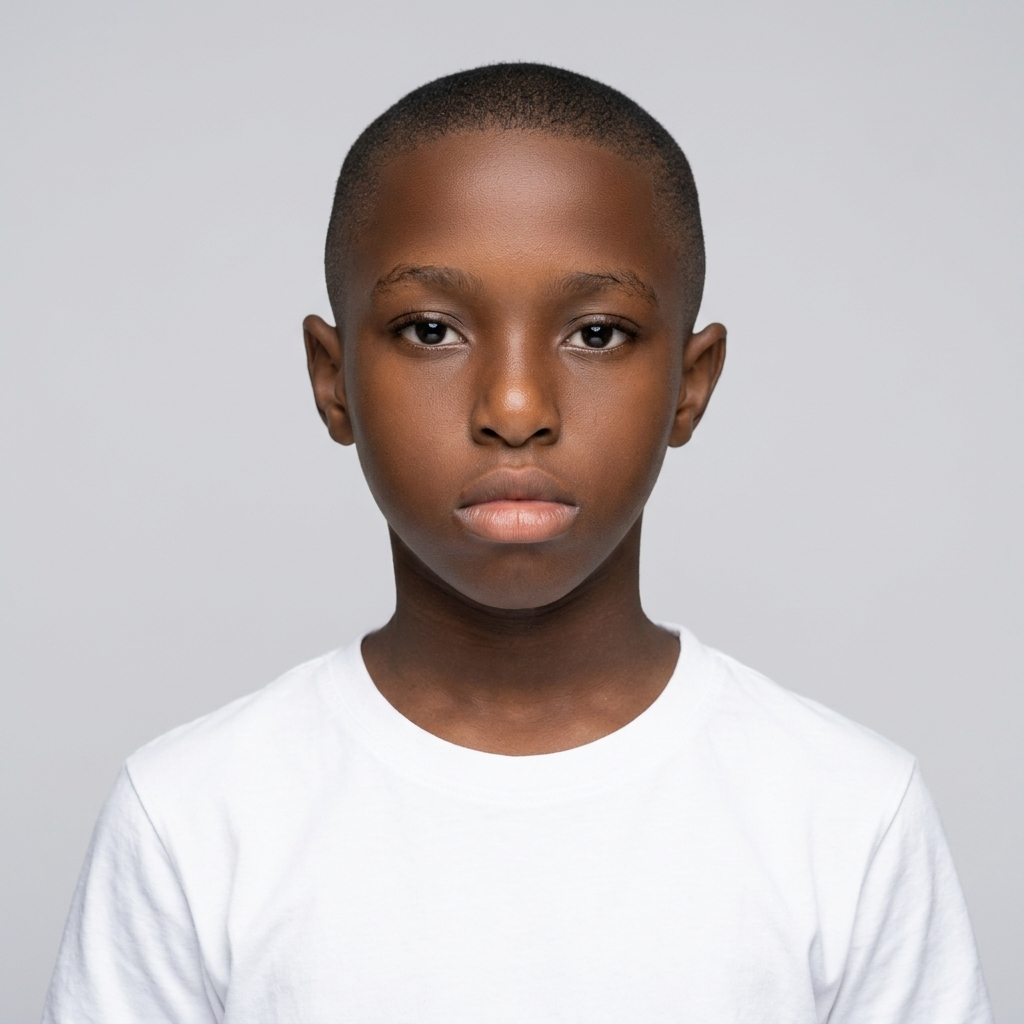
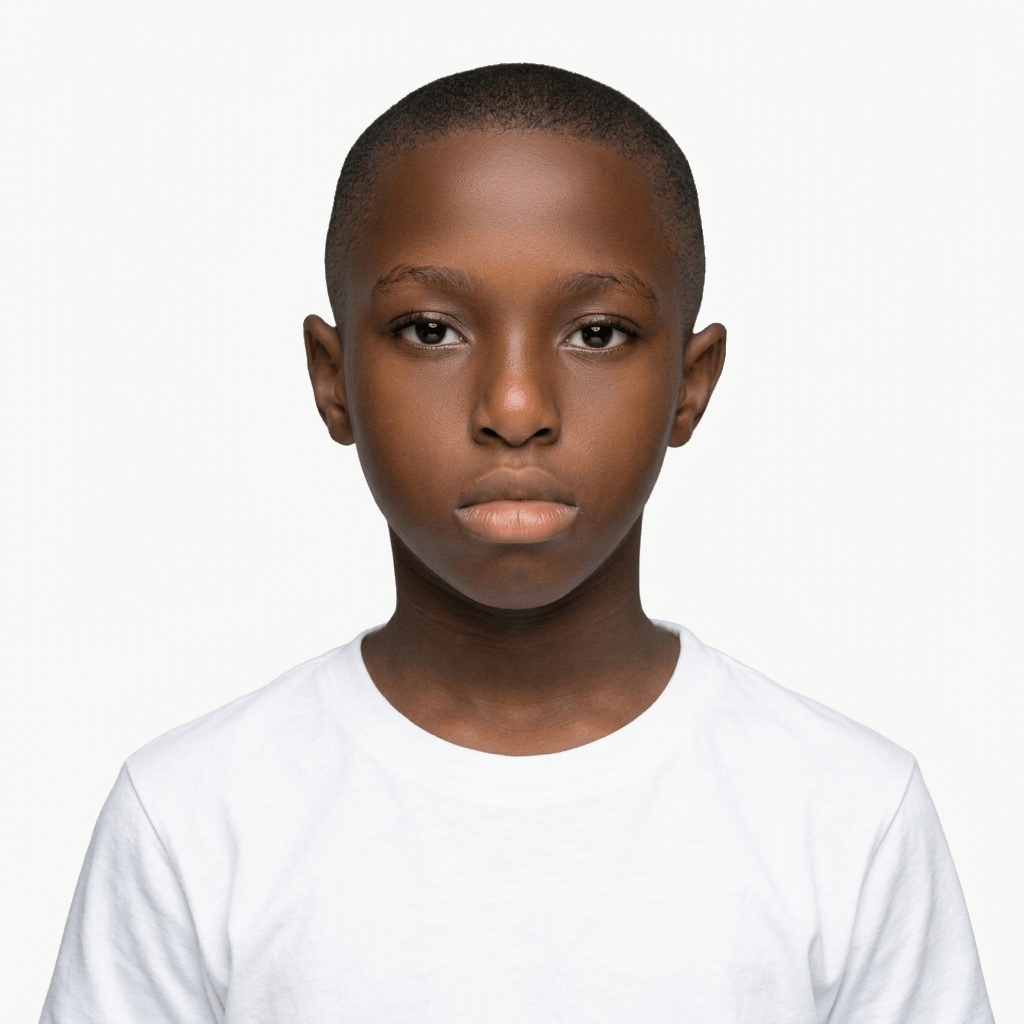
Seamlessly blend hero portrait cutout with portfolio background canvas

diff --git a/src/components/sections/Hero.tsx b/src/components/sections/Hero.tsx
@@ -45,18 +45,18 @@ export default function Hero() {
             className="lg:col-span-4 flex justify-center items-center relative z-10 -my-4 sm:-my-6 lg:-my-8"
           >
             <div className="relative w-[280px] sm:w-[340px] md:w-[380px] aspect-square">
-              {/* Main Cutout Portrait with White T-Shirt and Seamless Studio Background */}
+              {/* Main Cutout Portrait with White T-Shirt Seamlessly Blended on Page Canvas */}
               <Image
-                src="/images/tj_hero.jpg"
+                src="/images/tj_hero.png"
                 alt="Terrence J. Mark - Web Developer"
                 fill
                 priority
-                className="object-contain object-center select-none pointer-events-none drop-shadow-sm rounded-[24px]"
+                className="object-contain object-center select-none pointer-events-none"
                 sizes="(max-width: 768px) 300px, 400px"
               />
 
-              {/* Bottom Soft Gradient Mask to blend seamlessly into page background */}
-              <div className="absolute inset-x-0 bottom-0 h-16 bg-gradient-to-t from-[#F8F8F7] via-[#F8F8F7]/60 to-transparent pointer-events-none" />
+              {/* Bottom Soft Gradient Mask to blend torso seamlessly into page background */}
+              <div className="absolute inset-x-0 bottom-0 h-16 bg-gradient-to-t from-[#F8F8F7] via-[#F8F8F7]/70 to-transparent pointer-events-none" />
             </div>
           </motion.div>
 
